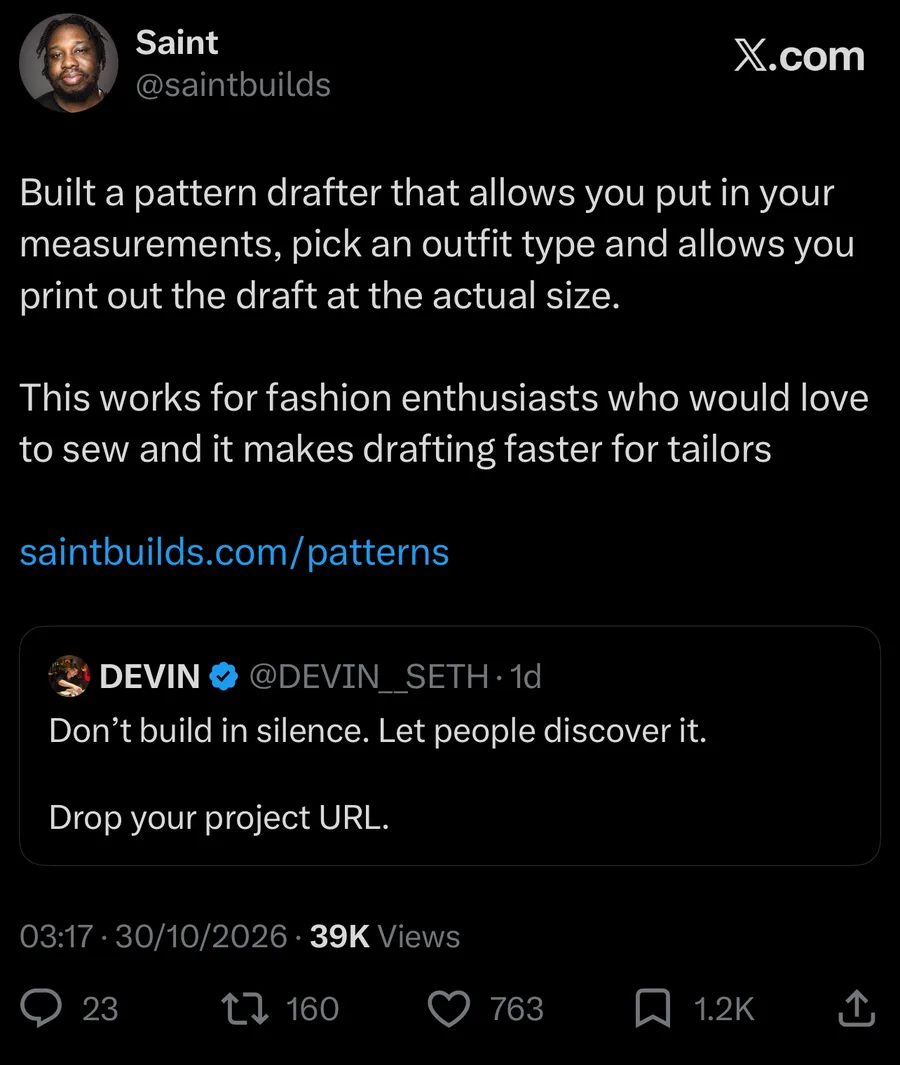
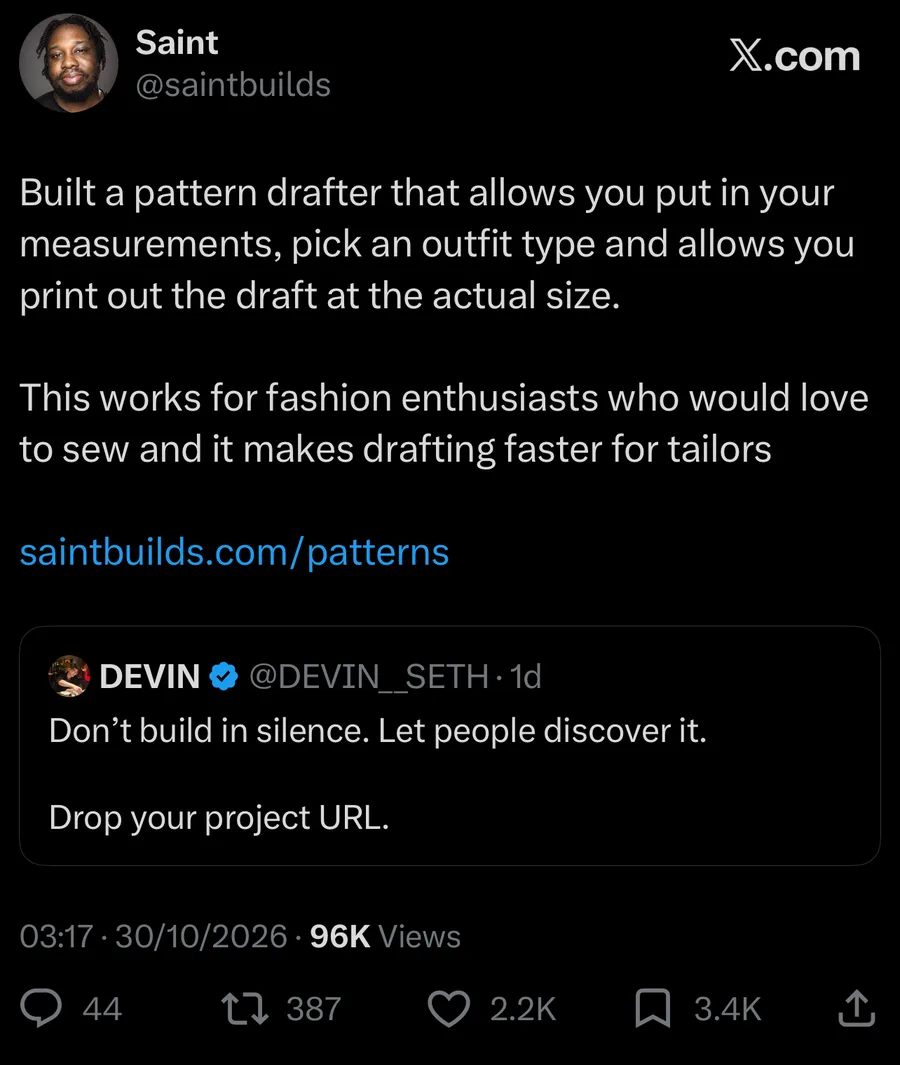
Pattern Drafter case study: launch post now 96K views
Claude-Session: https://claude.ai/code/session_01FUtnfUdHF4vGS2vfJm1ryx

diff --git a/work/patterns/index.html b/work/patterns/index.html
@@ -6,7 +6,7 @@
 <title>Pattern Drafter: sewing patterns from measurements — Saint Daniel</title>
 <meta name="description" content="Case study: designing and shipping Pattern Drafter, a free browser tool that turns body measurements into true-scale sewing patterns for 13 garments.">
 <meta property="og:title" content="Pattern Drafter — case study by Saint Daniel">
-<meta property="og:description" content="Measurements in, true-scale sewing patterns out. From a personal tool to 39K views and a womenswear release in one day.">
+<meta property="og:description" content="Measurements in, true-scale sewing patterns out. From a personal tool to 96K views and a womenswear release in one day.">
 <meta property="og:image" content="https://saintbuilds.com/patterns/og-image.jpg">
 <meta property="og:image:width" content="1200">
 <meta property="og:image:height" content="630">
@@ -120,8 +120,8 @@ td b{font-weight:500;color:var(--fg)}
     </div>
     <div class="stats">
       <div class="stat"><b>13</b><span>garments, men + women</span></div>
-      <div class="stat"><b>39K</b><span>views on the launch post</span></div>
-      <div class="stat"><b>1.2K</b><span>bookmarks</span></div>
+      <div class="stat"><b>96K</b><span>views on the launch post</span></div>
+      <div class="stat"><b>3.4K</b><span>bookmarks</span></div>
       <div class="stat"><b>1 day</b><span>from request to womenswear live</span></div>
     </div>
   </section>
@@ -235,17 +235,17 @@ td b{font-weight:500;color:var(--fg)}
         <h2>Posted in reply to “Drop your project URL”</h2>
         <p>The tool went live at saintbuilds.com/patterns with a link preview built from a real screenshot of the page. I shared it on X in reply to a post asking builders to drop their project URLs, aimed at two groups: fashion lovers who want to start sewing, and tailors who want to stop redrafting.</p>
         <div class="stats" style="grid-template-columns:repeat(2,1fr)">
-          <div class="stat"><b>39K</b><span>views</span></div>
-          <div class="stat"><b>763</b><span>likes</span></div>
-          <div class="stat"><b>1.2K</b><span>bookmarks</span></div>
-          <div class="stat"><b>160</b><span>reposts</span></div>
+          <div class="stat"><b>96K</b><span>views</span></div>
+          <div class="stat"><b>2.2K</b><span>likes</span></div>
+          <div class="stat"><b>3.4K</b><span>bookmarks</span></div>
+          <div class="stat"><b>387</b><span>reposts</span></div>
         </div>
         <p style="margin-top:18px">More people bookmarked it than liked it. They were saving it to use, not just reacting to it.</p>
         <p>Two replies changed the roadmap:</p>
         <div class="quote"><p>One reply asked for female outfits and promised to watch the page for updates.</p></div>
         <div class="quote"><p>Someone learning to sew wondered whether fabric type is considered.</p></div>
       </div>
-      <figure><img src="img/tweet.webp" alt="Launch post on X with 25K views" width="900" height="1065" loading="lazy"><figcaption>The launch post, 30 October 2026.</figcaption></figure>
+      <figure><img src="img/tweet.webp" alt="Launch post on X" width="900" height="1065" loading="lazy"><figcaption>The launch post, 30 October 2026.</figcaption></figure>
     </div>
   </section>
 

diff --git a/work/index.html b/work/index.html
@@ -87,7 +87,7 @@ footer{padding:32px 0 48px;color:var(--muted);font-size:13px;border-top:1px soli
       <img src="/work/kontratpay/img/hero.webp" alt="" width="647" height="1400">
     </a>
     <a class="card" href="/work/patterns/">
-      <div><small>Tool design · Build</small><h2>Pattern Drafter</h2><p>Measurements in, true-scale sewing patterns out. 13 garments, 39K views on launch, womenswear shipped the same day people asked.</p></div>
+      <div><small>Tool design · Build</small><h2>Pattern Drafter</h2><p>Measurements in, true-scale sewing patterns out. 13 garments, 96K views on launch, womenswear shipped the same day people asked.</p></div>
       <img src="/work/patterns/img/hero.webp" alt="" width="647" height="1402">
     </a>
     <a class="card" href="/work/gavi-africa/">
